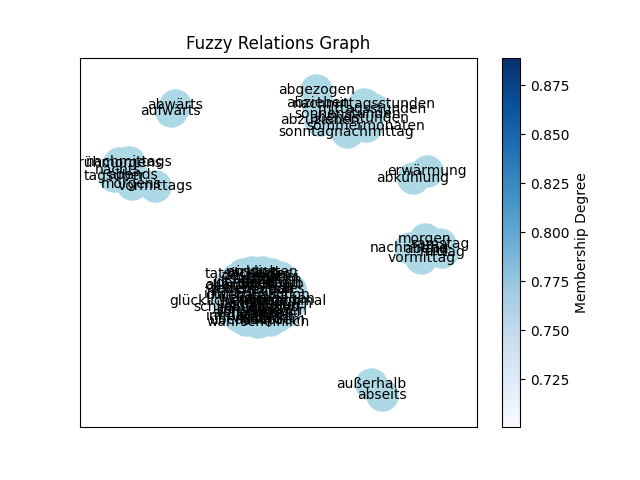
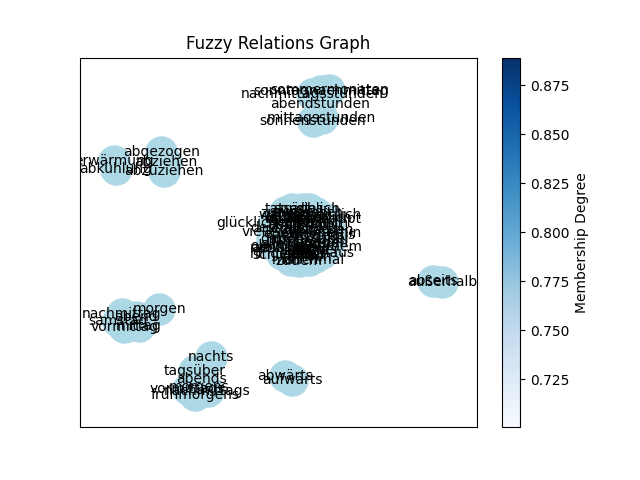
修正終端機輸出

diff --git a/src/read_fuzzy_relations.py b/src/read_fuzzy_relations.py
@@ -3,58 +3,96 @@ import os
 import networkx as nx
 import matplotlib.pyplot as plt
 
-# Set project root directory
+# 設定終端顏色代碼
+class TerminalColors:
+    HEADER = '\033[95m'
+    OKBLUE = '\033[94m'
+    OKCYAN = '\033[96m'
+    OKGREEN = '\033[92m'
+    WARNING = '\033[93m'
+    FAIL = '\033[91m'
+    ENDC = '\033[0m'
+    BOLD = '\033[1m'
+    UNDERLINE = '\033[4m'
+
+# 設定專案根目錄
 project_root = os.path.dirname(os.path.dirname(os.path.abspath(__file__)))
 
-# Set file paths
+# 設定檔案路徑
 fuzzy_relations_path = os.path.join(project_root, 'data', 'processed', 'fuzzy_relations.pkl')
 vocab_path = os.path.join(project_root, 'data', 'processed', 'vocab.pkl')
 
-# Load fuzzy relations
+# 加載模糊關係映射
+print(f"{TerminalColors.OKCYAN}正在載入模糊關係映射檔案：{fuzzy_relations_path}{TerminalColors.ENDC}")
 with open(fuzzy_relations_path, 'rb') as f:
     fuzzy_relations = pickle.load(f)
+print(f"{TerminalColors.OKGREEN}模糊關係映射已成功載入！{TerminalColors.ENDC}")
 
-# Load vocabulary mapping
+# 加載詞彙映射
+print(f"{TerminalColors.OKCYAN}正在載入詞彙映射檔案：{vocab_path}{TerminalColors.ENDC}")
 with open(vocab_path, 'rb') as f:
     vocab_data = pickle.load(f)
     word2idx = vocab_data['word2idx']
     idx2word = vocab_data['idx2word']
+print(f"{TerminalColors.OKGREEN}詞彙映射已成功載入！{TerminalColors.ENDC}")
 
-# Build NetworkX graph
-G = nx.Graph()
+# 遍歷模糊關係映射，打印部分詞彙及其模糊關係
+print(f"{TerminalColors.HEADER}展示前10個目標詞彙及其相關詞彙及隸屬度：{TerminalColors.ENDC}")
+def visualize_degree(degree, scale=20):
+    """
+    使用條形顯示隸屬度。
+    
+    :param degree: 隸屬度，介於 0 到 1 之間。
+    :param scale: 條形的最大長度，預設為 20。
+    :return: 表示隸屬度的條形字串。
+    """
+    bar_length = int(degree * scale)
+    return '█' * bar_length + '-' * (scale - bar_length)
 
-# Iterate through fuzzy relations and add nodes and edges to the graph
-for target_idx, related_words in list(fuzzy_relations.items())[:10]:  # Show only first 10 words
+for target_idx, related_words in list(fuzzy_relations.items())[:10]:
     target_word = idx2word[target_idx]
-    G.add_node(target_word)  # Add nodes
+    print(f"{TerminalColors.OKBLUE}目標詞彙：{target_word}{TerminalColors.ENDC}")
     for related_idx, degree in related_words.items():
         related_word = idx2word[related_idx]
-        G.add_edge(target_word, related_word, weight=degree)  # Add edges with weights
+        degree_bar = visualize_degree(degree)
+        print(f"  {TerminalColors.OKCYAN}相關詞彙：{related_word}，隸屬度：{degree:.2f} {degree_bar}{TerminalColors.ENDC}")
+    print()  # 空行分隔每個詞彙的結果
 
-# Set the appearance of nodes and edges
-pos = nx.spring_layout(G)  # Use spring layout for graph arrangement
-weights = [G[u][v]['weight'] for u, v in G.edges()]  # Get the edge weights
+# 構建 NetworkX 圖形
+G = nx.Graph()
 
-# Create subplots to manage colorbar and plot layout
+# 遍歷模糊關係映射，將詞彙及其關係加入圖中
+for target_idx, related_words in list(fuzzy_relations.items())[:10]:  # 只展示前10個詞彙
+    target_word = idx2word[target_idx]
+    G.add_node(target_word)  # 添加節點
+    for related_idx, degree in related_words.items():
+        related_word = idx2word[related_idx]
+        G.add_edge(target_word, related_word, weight=degree)  # 添加邊，權重為隸屬度
+
+# 設定節點和邊的外觀
+pos = nx.spring_layout(G)  # 使用 spring 布局進行圖形排列
+weights = [G[u][v]['weight'] for u, v in G.edges()]  # 取得邊的權重
+
+# 創建子圖來管理 colorbar 和圖形的佈局
 fig, ax = plt.subplots()
 
-# Draw edges with color and width based on weights
+# 繪製邊並根據權重設置顏色和寬度
 edges = nx.draw_networkx_edges(G, pos, ax=ax, edge_color=weights, width=[w * 2 for w in weights], edge_cmap=plt.cm.Blues)
 
-# Draw nodes and labels
+# 繪製節點與標籤
 nx.draw_networkx_nodes(G, pos, ax=ax, node_size=500, node_color='lightblue')
 nx.draw_networkx_labels(G, pos, ax=ax, font_size=10, font_family='sans-serif')
 
-# Add colorbar to indicate membership degree (weights)
+# 加入邊的顏色條（colorbar）表示隸屬度
 sm = plt.cm.ScalarMappable(cmap=plt.cm.Blues, norm=plt.Normalize(vmin=min(weights), vmax=max(weights)))
 sm.set_array(weights)
-plt.colorbar(sm, ax=ax, label='Membership Degree')  # Specify colorbar axis
+plt.colorbar(sm, ax=ax, label='Membership Degree')  # 指定 colorbar 應該繪製在哪個軸上
 
-# Save and display the graph
+# 儲存並顯示圖形
 output_image_path = os.path.join(project_root, 'data', 'processed', 'fuzzy_relations_graph.png')
 plt.title("Fuzzy Relations Graph")
 plt.savefig(output_image_path)
 plt.show()
 
-print(f"Fuzzy relations graph has been saved as {output_image_path}")
+print(f"{TerminalColors.OKGREEN}模糊關係圖已保存為 {output_image_path}{TerminalColors.ENDC}")
 
